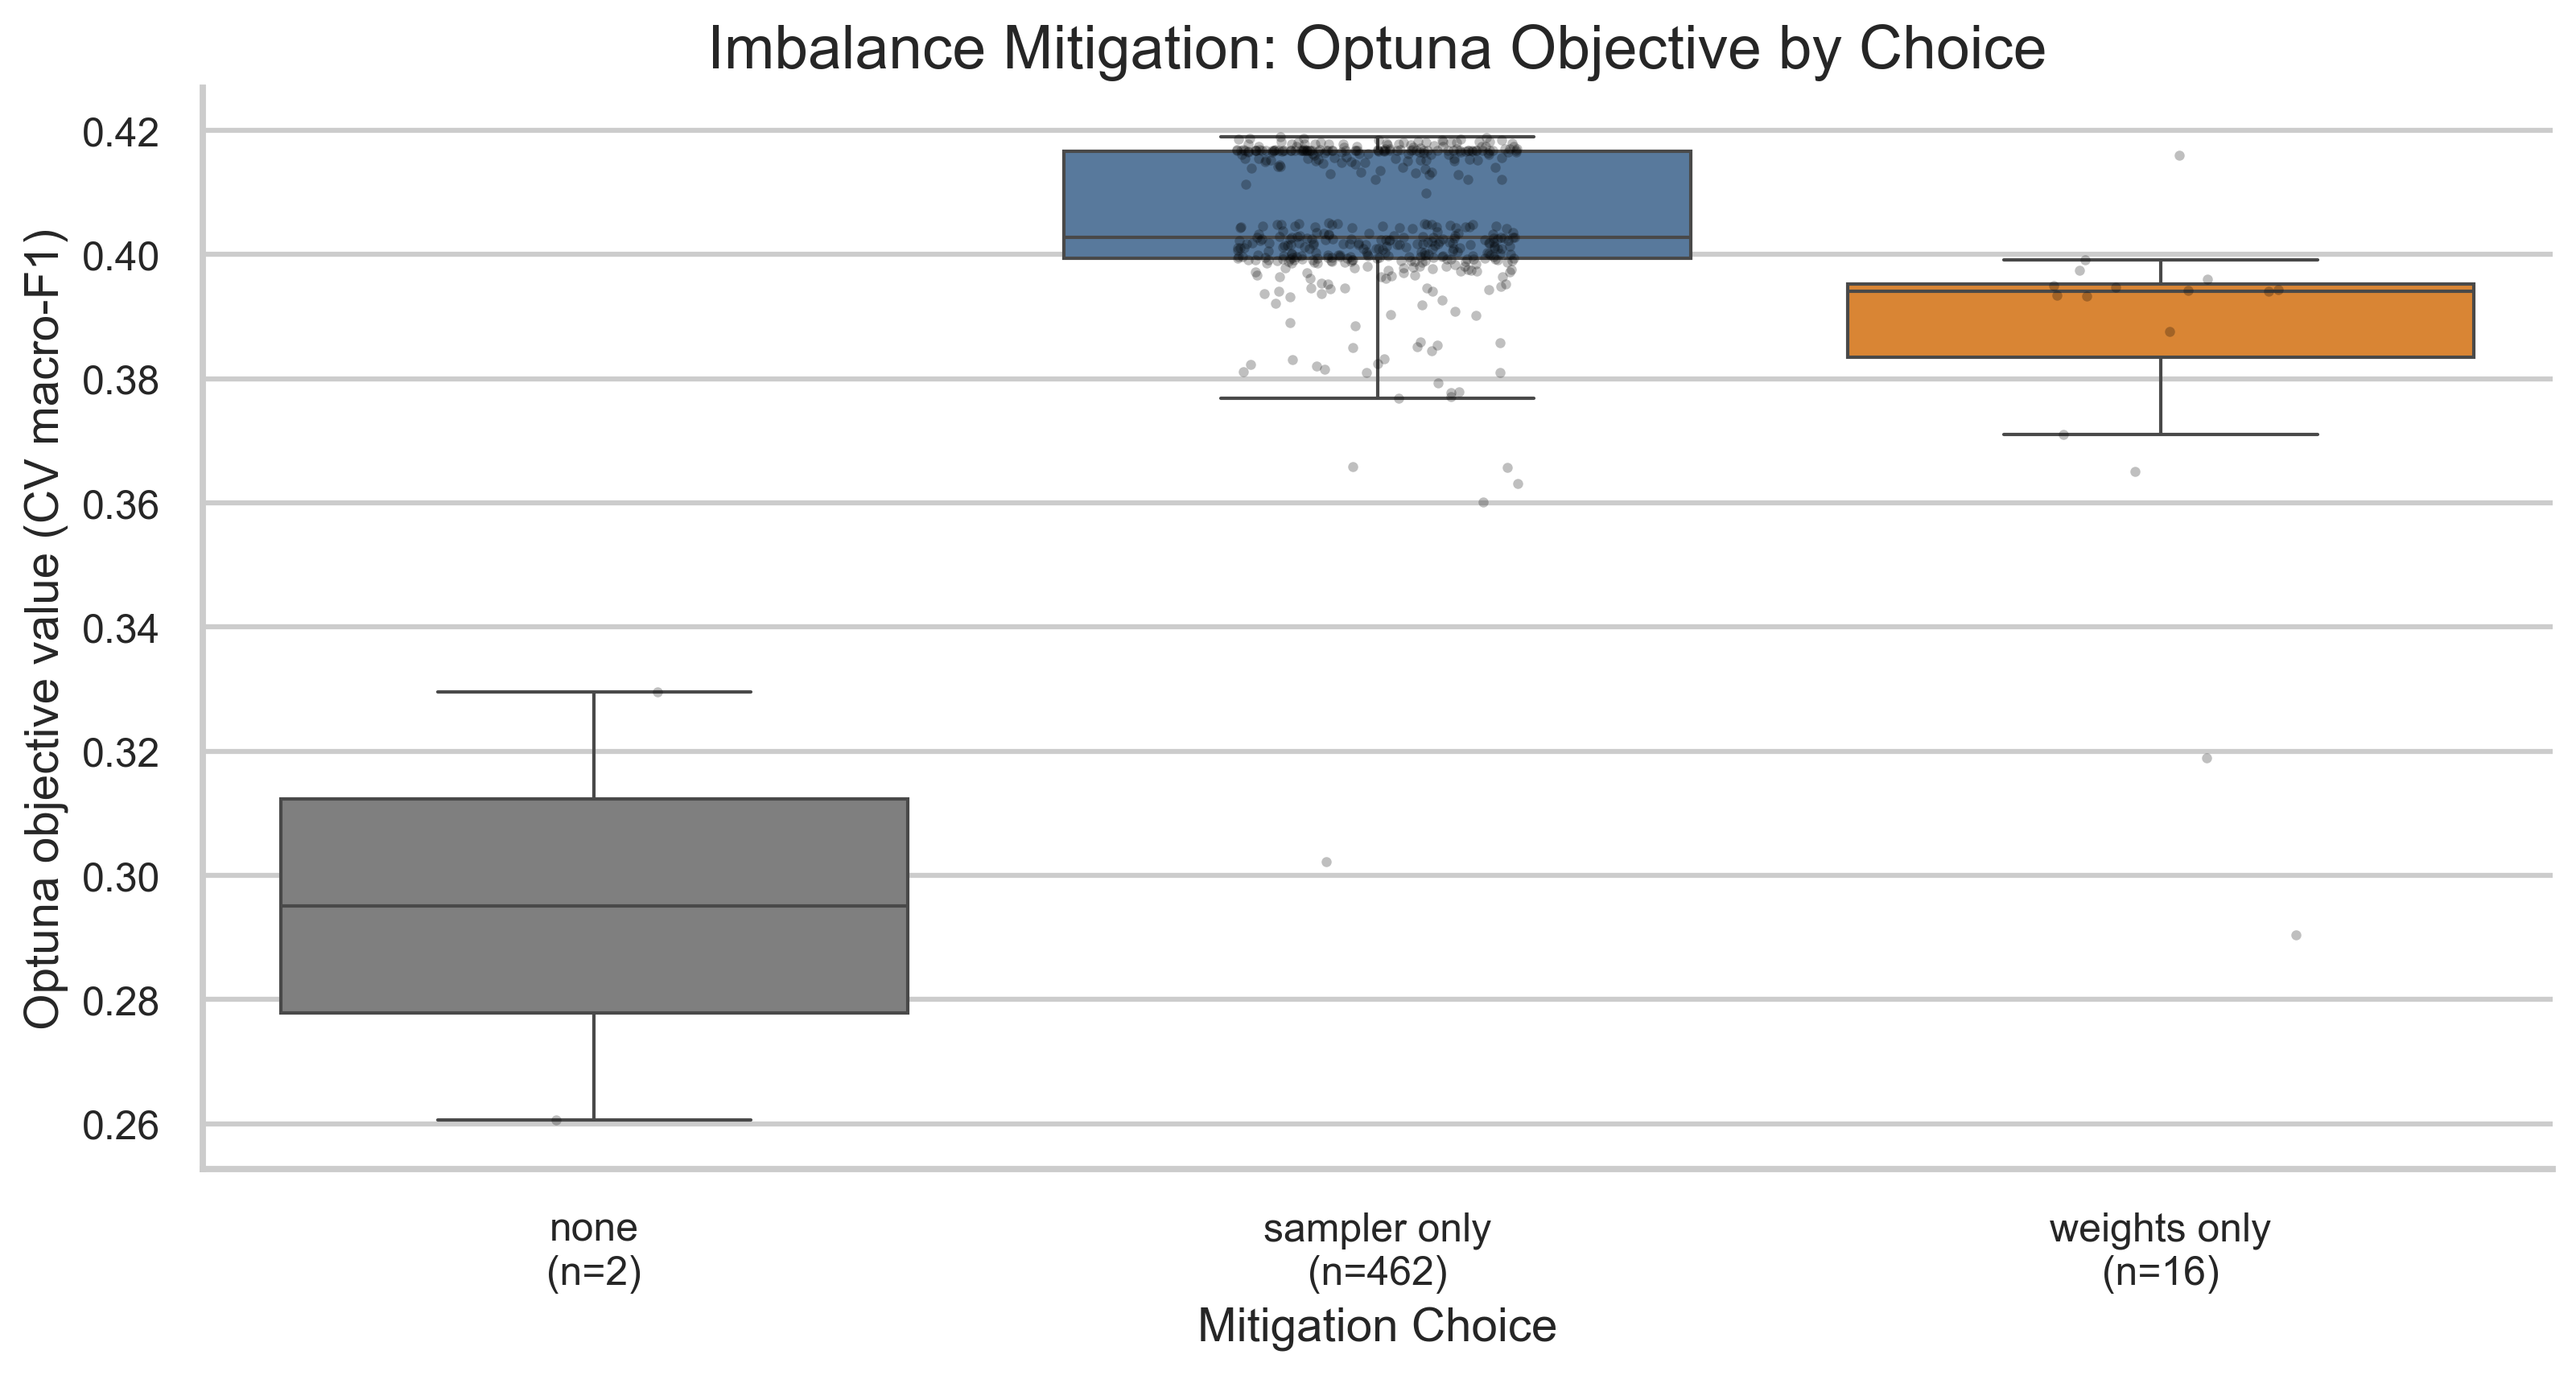
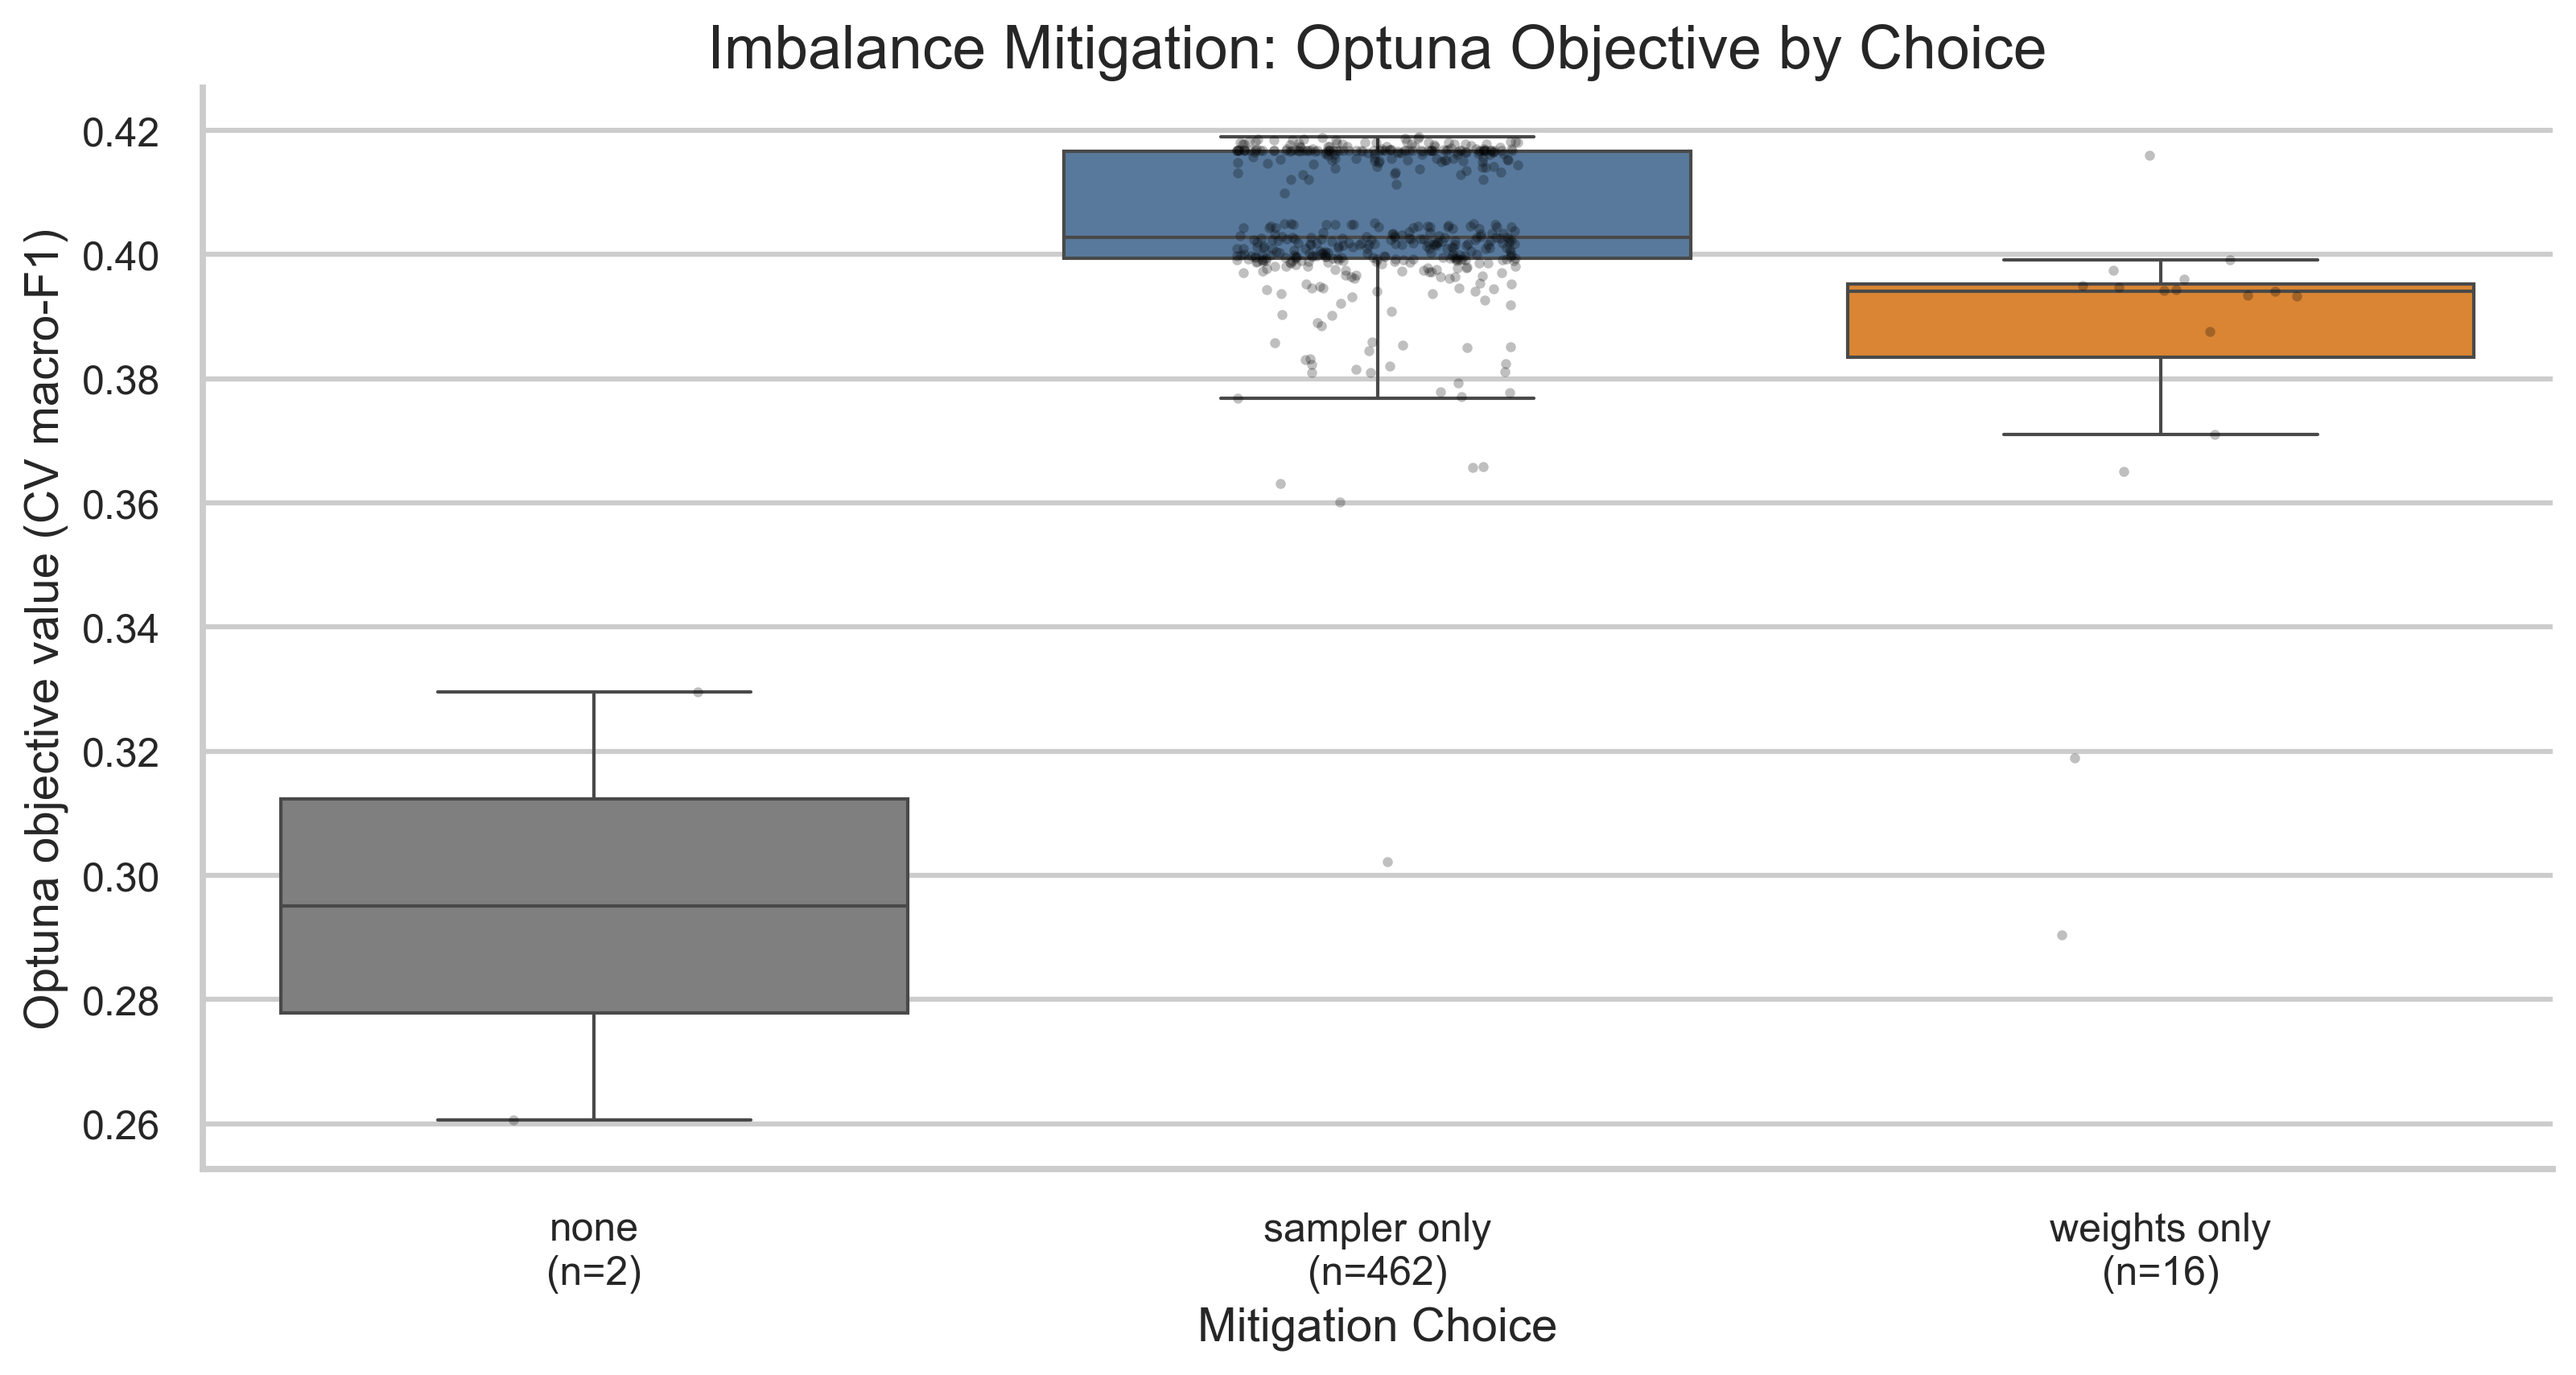
feat: Update sampler categorization and enhance performance visualizations
- Added a new column for sampler categories in the data processing to differentiate between "none" and "class_weights" samplers.
- Updated plotting functions to utilize the new sampler category for improved clarity in visualizations.
- Adjusted CSV outputs to reflect the new sampler categorization, enhancing the analysis of model performance across different sampling strategies.
- Updated binary figures related to sampler performance to ensure consistency with the new categorization.

Changed region(s): [[0.4686, 0.093, 0.5936, 0.2791]]

diff --git a/src/15_generate_imbalance_figures.py b/src/15_generate_imbalance_figures.py
@@ -419,20 +419,58 @@ def plot_heatmap_by_model_type(df: pd.DataFrame, out_dir: Path) -> None:
     savefig(fig, out_dir / "heatmap_model_mitigation.png")
 
 
+def _add_sampler_category_column(df: pd.DataFrame) -> pd.DataFrame:
+    """
+    For the sampler comparison plots, we need to split trials where `sampler="none"` into:
+      - `None`: sampler="none" and weights disabled
+      - `Class Weights`: sampler="none" and weights_only
+    For trials using any resampler, the category is the sampler name.
+    """
+    df2 = df.copy()
+    # Default: use sampler as the category.
+    df2["sampler_category"] = df2["sampler"].astype(str)
+
+    mask_none_no_weights = (df2["sampler"] == "none") & (df2["mitigation_group"] == "none")
+    df2.loc[mask_none_no_weights, "sampler_category"] = "none"
+
+    mask_class_weights = (df2["sampler"] == "none") & (df2["mitigation_group"] == "weights_only")
+    df2.loc[mask_class_weights, "sampler_category"] = "class_weights"
+
+    # Group SMOTE with SMOTENC (including hybrid variants) for visualization clarity.
+    # In this project, CatBoost uses labels {"smote", "smote_tomek", "smote_enn"} but internally
+    # the implementation is SMOTENC-based (SMOTETomek/SMOTEENN built on SMOTENC).
+    canon_map = {
+        "smotenc": "smote",
+        "smotenc_tomek": "smote_tomek",
+        "smotenc_enn": "smote_enn",
+    }
+    df2["sampler_category"] = df2["sampler_category"].map(lambda s: canon_map.get(s, s))
+
+    return df2
+
+
 def plot_sampler_global_performance(df: pd.DataFrame, out_dir: Path, *, min_count: int = 10) -> None:
-    counts = df["sampler"].value_counts()
-    keep = counts[counts >= min_count].index
-    sub = df[df["sampler"].isin(keep)].copy()
+    df2 = _add_sampler_category_column(df)
+
+    counts = df2["sampler_category"].value_counts()
+    keep = set(counts[counts >= min_count].index.tolist())
+    # Always show assignment-critical categories.
+    keep.update({"none", "class_weights"})
+    # `ADASYN` can be rare; force it to appear if it exists.
+    if "adasyn" in counts.index:
+        keep.add("adasyn")
+
+    sub = df2[df2["sampler_category"].isin(keep)].copy()
     if sub.empty:
         return
 
     order = (
-        sub.groupby("sampler")["value"]
+        sub.groupby("sampler_category")["value"]
         .mean()
         .sort_values(ascending=False)
         .index.tolist()
     )
-    sub["sampler_order"] = sub["sampler"].astype(pd.CategoricalDtype(categories=order, ordered=True))
+    sub["sampler_order"] = sub["sampler_category"].astype(pd.CategoricalDtype(categories=order, ordered=True))
 
     fig, ax = plt.subplots(figsize=(12, 6))
     sns.boxplot(
@@ -455,7 +493,14 @@ def plot_sampler_global_performance(df: pd.DataFrame, out_dir: Path, *, min_coun
         ax=ax,
     )
 
-    xlabels = [pretty_sampler(s) for s in order]
+    def pretty_category(cat: str) -> str:
+        if cat == "none":
+            return "None"
+        if cat == "class_weights":
+            return "Class Weights"
+        return pretty_sampler(cat)
+
+    xlabels = [pretty_category(s) for s in order]
     ax.set_xticks(range(len(order)))
     ax.set_xticklabels(xlabels, rotation=25, ha="right")
     ax.set_title("Effectiveness of Each Sampler (Global Optuna Trials)")
@@ -466,18 +511,23 @@ def plot_sampler_global_performance(df: pd.DataFrame, out_dir: Path, *, min_coun
 
 
 def plot_sampler_performance_by_model(df: pd.DataFrame, out_dir: Path, *, min_count: int = 10) -> None:
+    df2 = _add_sampler_category_column(df)
     model_types = sorted(set(df["model_type"]))
     if not model_types:
         return
 
-    counts = df["sampler"].value_counts()
-    keep = counts[counts >= min_count].index.tolist()
-    df2 = df[df["sampler"].isin(keep)].copy()
+    counts = df2["sampler_category"].value_counts()
+    keep = set(counts[counts >= min_count].index.tolist())
+    keep.update({"none", "class_weights"})
+    # `ADASYN` can be rare; force it to appear if it exists.
+    if "adasyn" in counts.index:
+        keep.add("adasyn")
+    df2 = df2[df2["sampler_category"].isin(keep)].copy()
     if df2.empty:
         return
 
     # Use global sampler order for consistent visual comparison.
-    global_order = df2.groupby("sampler")["value"].mean().sort_values(ascending=False).index.tolist()
+    global_order = df2.groupby("sampler_category")["value"].mean().sort_values(ascending=False).index.tolist()
     n = len(model_types)
     ncols = 2
     nrows = int(np.ceil(n / ncols))
@@ -492,8 +542,8 @@ def plot_sampler_performance_by_model(df: pd.DataFrame, out_dir: Path, *, min_co
             ax.axis("off")
             continue
 
-        order = [s for s in global_order if s in sub["sampler"].unique()]
-        sub["sampler_order"] = sub["sampler"].astype(pd.CategoricalDtype(categories=order, ordered=True))
+        order = [s for s in global_order if s in sub["sampler_category"].unique()]
+        sub["sampler_order"] = sub["sampler_category"].astype(pd.CategoricalDtype(categories=order, ordered=True))
 
         sns.boxplot(data=sub, x="sampler_order", y="value", order=order, showfliers=False, ax=ax)
         sns.stripplot(
@@ -508,7 +558,14 @@ def plot_sampler_performance_by_model(df: pd.DataFrame, out_dir: Path, *, min_co
             ax=ax,
         )
 
-        xlabels = [pretty_sampler(s) for s in order]
+        def pretty_category(cat: str) -> str:
+            if cat == "none":
+                return "None"
+            if cat == "class_weights":
+                return "Class Weights"
+            return pretty_sampler(cat)
+
+        xlabels = [pretty_category(s) for s in order]
         ax.set_xticks(range(len(order)))
         ax.set_xticklabels(xlabels, rotation=25, ha="right")
         ax.set_title(model)
@@ -570,8 +627,10 @@ def main() -> None:
     )
     mitigation_summary.to_csv(out_dir / "mitigation_summary_by_group_and_model.csv", index=False)
 
+    df_trials_cat = _add_sampler_category_column(df_trials)
+
     sampler_summary_global = (
-        df_trials.groupby("sampler")["value"]
+        df_trials_cat.groupby("sampler_category")["value"]
         .agg(trials="count", mean="mean", median="median", best="max", std="std")
         .reset_index()
         .sort_values("mean", ascending=False)
@@ -579,7 +638,7 @@ def main() -> None:
     sampler_summary_global.to_csv(out_dir / "sampler_summary_global.csv", index=False)
 
     sampler_summary_by_model = (
-        df_trials.groupby(["model_type", "sampler"])["value"]
+        df_trials_cat.groupby(["model_type", "sampler_category"])["value"]
         .agg(trials="count", mean="mean", median="median", best="max", std="std")
         .reset_index()
         .sort_values(["model_type", "mean"], ascending=[True, False])
